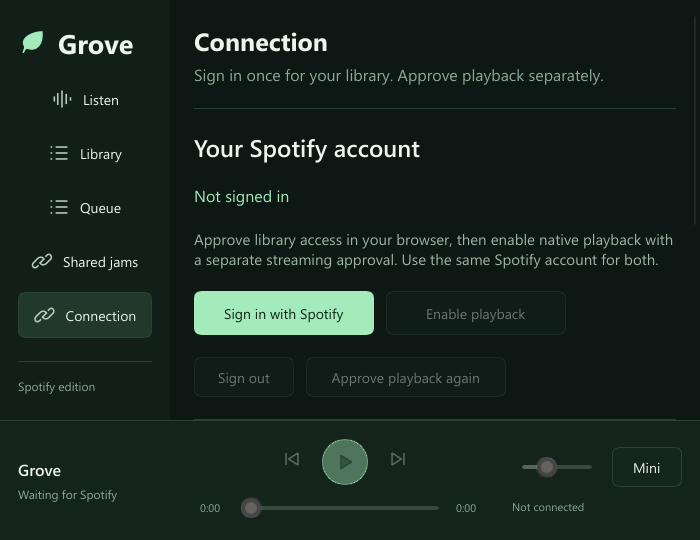
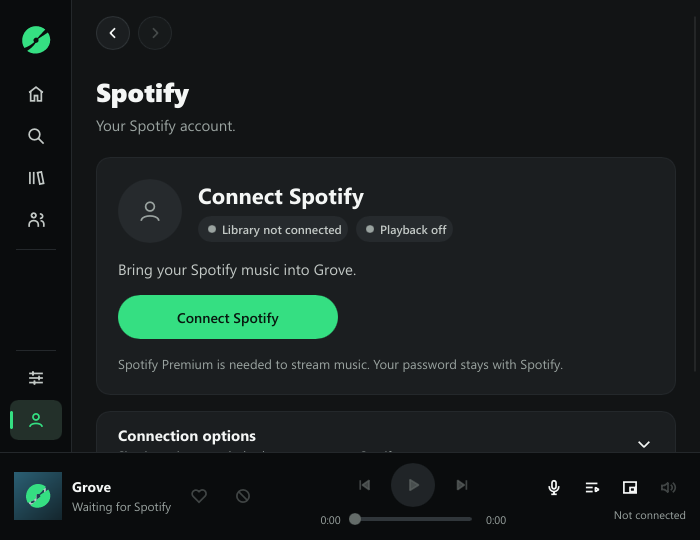
Docs: describe the merged state and what is still pending live
README features and screenshots, the Tide parity table and the beta status
now cover the five merged branches, the startup budgets and the Linux and
macOS preview, and list the checks that need a live account, Premium,
hardware, a public relay or code signing.

diff --git a/docs/grove/TIDE_PARITY.md b/docs/grove/TIDE_PARITY.md
@@ -1,8 +1,11 @@
 # Tide → Grove feature audit
 
 Reviewed 2026-10-22 against Tide 0.3.0, `origin/main` at `567cb97`, especially
-`docs/USING_TIDE.md` and the native application. The older Tide checkout on this
-branch is not the parity reference. **Full parity is not complete.**
+`docs/USING_TIDE.md` and the native application. Updated 2026-11-24 for the
+merged module split (#42), UI shell (#47), audio engine (#43), browse pages (#44),
+Windows integration (#45) and jams (#46), plus the startup request budgets and
+the Linux/macOS preview (#48). **Every row below is implemented offline; none of
+it has been checked against a live Spotify account yet.**
 
 “Implemented” means a reachable native control with connected application logic.
 Offline callbacks do not establish that a Spotify grant, endpoint, audio device
@@ -16,6 +19,7 @@ or second Premium account works in production.
 | My Supermix | Provider alternative | Discovery mix, pinned in Library and on Home: top songs, top artists' newest releases and liked songs by those artists. Spotify's recommendation endpoints are closed to new apps. |
 | Playlists / Liked Songs | Implemented | Library tabs (Playlists, Albums, Artists, History) with a filter. Collection pages with a header (artwork, owner, count, Play/Shuffle) and a track table. Spotify only lists items of playlists you own or collaborate on; others show a note and play as a Spotify context. |
 | Artist browsing | Implemented | Artist pages: hero header, Play/Shuffle, Follow/Following through `/me/library`, popular songs (top tracks where allowed, otherwise from the newest releases), album and single shelves. Song menus offer a choice among credited artists. |
+| Rate limits (Grove-specific) | Implemented; live check pending | Requests are grouped into budgets (search, library, playlists, artists, profile, …). A 429 cools down only its budget, honours `Retry-After`, shows the time left with Retry and words `QUOTA_EXCEEDED` differently. Identical reads collapse and track lookups are batched where Spotify still allows it. The startup profile and first playlists page are cached per account: fresh, they need no request; stale or throttled, the last launch's copy shows at once. Playback never waits on a Web API cooldown. |
 | Artwork | Implemented | Public Spotify CDN only; no OAuth on downloads; bounded worker, timeout, size/decode limits, 160-entry cache of 192 px covers. Pages request a bounded number of covers and models update in place, so covers do not flicker or refetch in a loop. |
 | Song menus | Implemented | Play, Play next, Add to queue, Like/Unlike, View artist, Hide and playlist editing. Remove appears only for owned playlists and asks for confirmation. |
 | Likes / dislikes | Provider alternative | Spotify Save/Unsave including current player. Hide is a Grove preference, not a Spotify dislike. |
@@ -29,14 +33,17 @@ or second Premium account works in production.
 | Loading / retry / quality | Implemented; live audio check open | Settings → Audio: 96/160/320 kbps and volume levelling (automatic/per song/per album, pregain), applied by restarting the player at the same song and position. Now Playing shows the source format (codec · bitrate · 44.1 kHz) using librespot's own file preference order. A lost librespot session (network drop, sleep, invalid session) reconnects automatically with the saved approval on a capped backoff and restores song, context and position; the player shows Reconnecting… meanwhile. Also: fade between songs (Off or 2–12 s, gapless albums kept), equalizer presets plus a 5/10-band custom curve, sleep timer, and resume positions for episodes and 20-minute tracks. |
 | Light / dark | Implemented | Settings; persisted independently from window size. |
 | Normal / Compact / Mini / restore | Implemented | Settings layout and mini/restore; previous expanded size is retained. |
-| Windows media controls | Implemented; hardware check open | Shared native session, metadata/timeline and guarded callbacks; Settings can disable it. Review modes register no system session. |
-| Custom global shortcuts | Missing | Grove does not register configurable Ctrl/Alt combinations. |
+| System media controls | Implemented; hardware check open | Windows: shared SMTC session with taskbar buttons. Linux: MPRIS; macOS: Now Playing (both through souvlaki behind the `MediaControls` seam, never run on hardware). mpv gets `--media-controls=no` so it cannot claim media keys. Settings can disable it; review modes register no system session. |
+| Custom global shortcuts | Implemented (Windows); live check open | Settings → Keyboard shortcuts records Ctrl/Alt chords for Play/pause, Next and Previous through `RegisterHotKey`, reports conflicts, and Space / ← / → work inside the window. Not available on Linux or macOS yet. |
+| Tray / System theme / crash reports | Implemented (Windows); live check open | Opt-in keep-playing-in-the-tray with a menu; Dark/Light/System following the Windows app setting; a redacted local crash log with a notice on the next launch. Nothing is uploaded. |
+| Synced lyrics | Implemented; live check open | Now Playing shows LRCLIB synced lyrics (public metadata only), follows the position and seeks on click. |
 | Output-device recovery | Implemented; hardware check open | Settings → Audio chooses System default (follows Windows) or a named output, saved across restarts; a missing saved output is labelled unavailable. Grove's own librespot sink reopens on a Windows default change, pauses instead of blocking when the output fails, and resumes once if the same song's output returns within 10 minutes. Physical Bluetooth/USB/HDMI loss and return are not yet verified. |
 | Local audio files | Implemented | Settings → Open audio file uses Tide's owned mpv backend without a Spotify login. Native play/pause, seek, volume, retry, mini and return use the same player. Spotify pause must be confirmed before switching; local files cannot enter jams. Requires the shared mpv runtime. |
 | Jams on own devices | Nearby rooms implemented | Real TCP host/guest review, ownership, host control, drift correction, stale samples and confirmed consumption. Each account streams independently; two-account audio validation remains open. |
 | Internet Jams | Implemented; live check pending | Joins Tide relay rooms (protocol 1, TLS, short codes, wake-up, bounded retry/rejoin). Grove-hosted internet rooms use cross-service protocol 2 on the free self-hostable `grove-jam-relay`; Tide needs protocol 2 to follow them. No public relay deployment validated. |
 | Tide ↔ Grove jams / matching | Implemented; audible check pending | Grove follows Tide hosts on Tide's relay, interop-tested in CI against a pinned Tide commit. ISRC auto-match, duration-ranked candidates, opt-in remembered choices, album/playlist entries. Encrypted nearby rooms are Grove-only until Tide adopts protocol 3. See [cross-service jams](../CROSS_SERVICE_JAMS.md). |
-| Installer / updates | Private candidate | Grove has its own per-user installer, portable package, checksums and rollback/uninstall checks. Manual updates only; Spotify verification holds the beta from release. See [beta status](BETA_STATUS.md). |
+| Installer / updates | Private candidate | Per-user installer, portable package, checksums and rollback/uninstall checks. Settings → Updates checks GitHub Releases and verifies the installer's size and SHA-256 from `GroveUpdate.json` before handing off; releases are unsigned, so this proves integrity, not authenticity. Spotify verification holds the beta from release. See [beta status](BETA_STATUS.md). |
+| Mac / Linux | Preview; hardware check pending | Like Tide's Mac preview, but unsigned and CI-only: the ubuntu and macos jobs test, run clippy and the offline review modes, and upload a portable tar.gz. Sign-ins use the Secret Service or Keychain, local files use mpv over a private Unix socket, and the browser opens through `xdg-open`/`open`. No installer, updater, tray, global shortcuts or System theme there yet. See [PORTABLE.md](PORTABLE.md). |
 | Branding | Partial | Approved log/record SVG is embedded. The live X banner still predates the final logo and was not replaced during this audit. |
 
 Home is the default screen. Account has one primary connection action; client IDs,
@@ -63,6 +70,9 @@ launch consent, write preferences or register Windows media controls.
 ./target/debug/grove-music.exe --review-audio "$env:TEMP/grove-audio-review"
 ```
 
+CI runs the same build, tests, clippy and the smoke, feature and jam review modes
+on Windows, and (non-blocking) on Ubuntu under Xvfb and on macOS.
+
 Feature review uses actual callbacks with synthetic responses: sign-in guard,
 overlapping searches, pagination, song menus, reorder/remove, hide/reset,
 confirmed starts, stale EOF, timeout preservation, collection entry shapes,
@@ -77,8 +87,10 @@ Spotify credentials or a file-picker dialog. The other review modes never start
 an audio backend. The actual Windows file chooser still needs manual validation.
 
 Live checks remain: fresh consent with added scopes; Spotify search/library and
-playlist writes; native audio/seek; two-account jam audio; media keys in games;
-and physical output-device switching. Browse up to 2,000 rows; Play/Shuffle use
+playlist writes; real 429 and `QUOTA_EXCEEDED` replies; native audio/seek and the
+audio settings by ear; reconnect after a real network drop or sleep; two-account
+jam audio and a public relay host; media keys in games; physical output-device
+switching; and any run of the Linux or macOS builds on real hardware. Browse up to 2,000 rows; Play/Shuffle use
 up to 500 loaded songs; the editable Grove queue holds up to 500 tracks.
 
 ## Spotify references

diff --git a/docs/grove/BETA_STATUS.md b/docs/grove/BETA_STATUS.md
@@ -1,52 +1,75 @@
-# Grove private beta status — 2026-10-22
+# Grove private beta status — 2026-11-24
 
 **Release hold: Spotify access and audible playback are not verified.**
 
-Grove 0.1.0-beta.1 has an installable Windows x64 candidate. It is not ready
-to distribute as a working Spotify player. No public release has been made.
+Grove 0.1.0-beta.1 has an installable Windows x64 candidate, and Linux and
+macOS preview archives come out of CI. None of it is ready to distribute as a
+working Spotify player. No public release has been made.
+
+Since the October candidate, the module split (#42) and five parity branches
+have merged: the UI shell with Now Playing lyrics and the queue drawer (#47),
+the audio engine (#43), browse pages with request budgets (#44), Windows
+integration and release infrastructure (#45) and jams (#46). #48 routes the
+startup profile and playlists through the same budgets and cache, and adds the
+Linux and macOS builds. Everything below "Candidate checks" was verified offline
+only.
 
 ## What is blocking release
 
-- The live account saved a library approval. The final read-only check verified
-  the account profile, but library requests hit HTTP 429 and the local cooldown
-  blocked further library/search requests. No catalog checks passed. This response
-  did not identify QUOTA_EXCEEDED; it remains a recurring rate limit.
-- The final profile check confirmed the account is not Premium. Streaming in Grove requires
-  Premium, so audible playback, pause/seek/resume and volume remain unverified.
-- There is no dedicated Grove Spotify Client ID. A reliable private beta needs
-  an app owner who meets Spotify's current development requirements and adds
-  the testers to the allowlist. The tester does not need to share any secret.
-- Two-device Spotify jams and audible Tide ↔ Grove synchronization still need
-  live testing with eligible accounts. Internet rooms need a relay deployment
-  check (live check pending).
+- **Live Spotify account.** The October check saved a library approval, but
+  library requests hit HTTP 429. Grove now cools down only the affected
+  endpoint group, keeps the last launch's profile and playlists on screen and
+  tells `QUOTA_EXCEEDED` apart, but no catalog, library or playlist-write check
+  has passed against Spotify yet.
+- **Premium.** The test account is not Premium. Streaming needs Premium, so
+  audible playback, pause/seek/resume, volume, the audio settings (quality,
+  levelling, fades, equalizer, sleep timer) and reconnect after a real network
+  drop or sleep remain unverified.
+- **Dedicated Spotify Client ID.** A reliable private beta needs an app owner
+  who meets Spotify's current development requirements and allowlists the
+  testers. Testers never need to share a secret.
+- **Jams.** Two-device Spotify jams, audible Tide ↔ Grove synchronization and a
+  public `grove-jam-relay` host behind TLS need live testing.
+- **Code signing.** The installer, the updates and the macOS archive are
+  unsigned. The update check proves a download matches its release, not who
+  published it.
 
 Spotify's [quota modes](https://developer.spotify.com/documentation/web-api/concepts/quota-modes)
 describe Premium ownership and the five-user limit for a new development app.
 The [quota update](https://developer.spotify.com/blog/2026-07-23-web-api-quota-updates)
 explains developer-wide quotas and the QUOTA_EXCEEDED response reason.
 
-## Candidate checks
+## Candidate checks (offline)
 
-- 16 Grove and 15 shared-jam unit tests pass. Strict Clippy passes for both
-  packages. The final optimized build and package results accompany the download.
-- Native candidate reviews passed 18 feature stages, 16 jam callback stages,
-  eight muted local-audio stages and a 19-view smoke run.
-- Installer tests passed payload corruption/traversal checks, eight bootstrap
-  rejection cases and 22 installation/rollback/uninstall scenarios.
-- An isolated installation downloaded the real pinned mpv runtime, created real
-  shortcuts in a temporary folder, ran native local-audio checks and uninstalled.
-  Windows application registration was simulated; this is not a clean-machine test.
-- Package allowlists, SHA-256 checks and a credential/private-path scan passed.
-  The installer is unsigned and updates are manual.
+- `cargo fmt`, `cargo test --workspace` and `cargo clippy --workspace
+  --all-targets -D warnings` pass on Windows; CI repeats them on Ubuntu and
+  macOS (non-blocking jobs).
+- The smoke run (63 stages, 53 captures at 1200×800 and 700×540, light and
+  dark), the feature, browse and system review (49 stages), the jam review
+  (29 stages over real loopback peers and a local relay) and the audio review
+  (15 stages, 12 captures) pass. On Linux and macOS, CI runs the smoke,
+  feature and jam reviews and uploads the screenshots.
+- `scripts/test_grove_beta.py` covers payload corruption and traversal,
+  bootstrap rejections, the install/rollback/uninstall lifecycle and the
+  `grove://` handler with a faked registry.
+- Package allowlists, SHA-256 checks and a credential/private-path scan pass.
+  The shared crates match the pinned Tide commit.
 
 ## Remaining acceptance checks
 
 1. Configure an eligible dedicated Spotify app and allowlist a small tester group.
-2. Verify fresh consent, catalog/library access and reconnect after restarting.
-3. With a Premium tester, hear a song and test pause, seek, resume and volume.
-4. Verify Like/Unlike and a reversible edit to a disposable owned playlist.
-5. Test installation/removal on a clean Windows account, hardware media keys,
-   and output-device reconnection. Test two-device jams before promoting them.
+2. Verify fresh consent with the added scopes, catalog/library access, a real
+   429 cooldown and reconnect after restarting.
+3. With a Premium tester, hear a song and test pause, seek, resume, volume, the
+   audio settings and recovery after sleep and a network drop.
+4. Verify Like/Unlike, follow/unfollow and a reversible edit to a disposable
+   owned playlist.
+5. Test installation, update and removal on a clean Windows account, hardware
+   media keys, global shortcuts, the tray, and output-device loss and return.
+6. Test two-device jams and Tide ↔ Grove rooms, including a public relay host.
+7. Run the Linux and macOS archives on real machines: sign-in through the
+   browser, keyring storage, MPRIS / Now Playing, audio output and local files
+   through mpv.
 
 Use Settings → Save support info for a report without account names, music
 history or tokens. Do not send authorization codes or full login URLs.

diff --git a/README.md b/README.md
@@ -2,7 +2,7 @@
 
 # Grove
 
-**A lightweight, native Spotify player for Windows — the Spotify sibling of [Tide](https://github.com/yotam1001/tide-music).**
+**A lightweight, native Spotify player for Windows (with Linux and macOS previews) — the Spotify sibling of [Tide](https://github.com/yotam1001/tide-music).**
 
 Grove is a Rust + [Slint](https://slint.dev/) desktop app. It browses your library through the Spotify Web API and plays audio in-process with [librespot](https://github.com/librespot-org/librespot), so there is no browser, Electron shell or external daemon. It shares Tide's playback, Windows-integration and jam crates so the two apps can host and join each other's listening rooms.
 
@@ -12,20 +12,24 @@ Grove is a Rust + [Slint](https://slint.dev/) desktop app. It browses your libra
 
 ## Features (today)
 
-- Home, Search, Library, Liked Songs, Now playing, Queue, Shared jams, Settings, Account
-- Paste Spotify track / album / playlist / episode links
-- Native play/pause, seek, volume, shuffle, repeat; editable Grove queue
-- Song menus: Play next, Add to queue, Like/Unlike, View artist, Hide, owned-playlist editing
-- Light/dark, Normal/Compact/Mini layouts, Windows media controls, opt-in session history
-- Local audio files through Tide's mpv backend (no Spotify login needed)
-- Shared jams: encrypted nearby rooms, internet rooms via a free self-hostable relay, and joining **Tide** rooms (Tide ↔ Grove matching by ISRC/duration)
-- PKCE sign-in in your browser; credentials in Windows Credential Manager — Grove never sees your password
+- **Browse:** card-based Home (hero, quick picks, Made for you, recent, top artists, playlists, albums), Search with an All view and tabs, Library tabs (Playlists, Albums, Artists, History) with a filter, collection and artist pages, Liked Songs and a Discovery mix
+- **Listen:** native play/pause, seek, volume, shuffle and repeat; Now Playing with synced lyrics (LRCLIB) and an artwork-derived accent; a queue drawer with drag-to-reorder, autoplay and related songs
+- **Audio:** 96/160/320 kbps, volume levelling, fade between songs, equalizer presets and a custom curve, sleep timer, resume positions, output-device choice and automatic reconnect after a network drop or sleep
+- **Song menus:** Play next, Add to queue, Like/Unlike, View artist, Hide, and exact edits to playlists you own
+- **Spotify request budgets:** a 429 cools down only its own endpoint group, shows the time left with Retry and tells `QUOTA_EXCEEDED` apart; Home, Library and the startup profile and playlists are cached per account, so a startup 429 never blocks playback
+- **Shared jams:** encrypted nearby rooms, internet rooms through a free self-hostable relay, and joining **Tide** rooms (ISRC/duration matching)
+- **Windows:** media controls, opt-in tray, global shortcuts, System theme, crash notices, in-app update check, per-user installer
+- **Linux and macOS preview:** MPRIS / Now Playing, Secret Service / Keychain sign-in storage and mpv over a Unix socket; built, tested and packaged in CI but not yet run on real hardware
+- Light/dark/System, Normal/Compact/Mini layouts, opt-in session history, local audio files through Tide's mpv backend (no Spotify login needed)
+- PKCE sign-in in your browser; tokens live in the OS credential store and Grove never sees your password
+
+![Grove Home](docs/grove/screenshots/home.png)
 
 Full feature/parity table: [docs/grove/TIDE_PARITY.md](docs/grove/TIDE_PARITY.md).
 
 ## Requirements
 
-- Windows 10/11 x64
+- Windows 10/11 x64 (Linux and macOS: preview builds from CI, see [docs/grove/PORTABLE.md](docs/grove/PORTABLE.md))
 - Rust stable (see CI) — `cargo build --release -p grove-music`
 - Spotify **Premium** for playback (browsing works on free accounts)
 - `mpv` only for local-file playback
@@ -39,6 +43,7 @@ cargo run -p grove-music
 ./target/debug/grove-music.exe --smoke-ui "$env:TEMP/grove-smoke"
 ./target/debug/grove-music.exe --review-features "$env:TEMP/grove-features"
 ./target/debug/grove-music.exe --review-ui "$env:TEMP/grove-jams"
+./target/debug/grove-music.exe --review-audio "$env:TEMP/grove-audio"
 ```
 
 Then open **Account → Connect Spotify**, and **Enable playback** for the separate streaming approval. Details: [docs/grove/README.md](docs/grove/README.md).
@@ -54,11 +59,11 @@ Then open **Account → Connect Spotify**, and **Enable playback** for the separ
 | `ui/theme.slint`, `ui/components.slint`, `ui/model.slint`, `ui/player.slint` | Colour tokens, shared controls, row structs, player bar |
 | `ui/pages/` | One file per page (home and search lists, library, queue, now playing, jams, settings, account, playlist editor) |
 | `crates/jam` | Jam protocol, sync, encrypted nearby transport, Tide relay client and `grove-jam-relay` (interop-tested against Tide) |
-| `crates/playback`, `crates/core`, `crates/windows` | Vendored from Tide: mpv backend, shared types, Windows media integration |
-| `installer/`, `scripts/` | Per-user installer and packaging (still being decoupled from Tide's harness) |
+| `crates/playback`, `crates/core`, `crates/windows` | Vendored from Tide: mpv backend (named pipe on Windows, Unix socket elsewhere), shared types, Windows media integration |
+| `installer/`, `scripts/` | Per-user installer, packaging, release and shared-crate sync scripts |
 | `docs/` | Design notes, beta status, parity audit, jam protocol |
 
-The shared crates are a snapshot of Tide's. Keeping them in sync (or extracting them into a shared crate repo) is tracked in the issues.
+The shared crates are a snapshot of Tide's: `crates/core` and `crates/windows` are pinned to a Tide commit and checked in CI by `scripts/sync_shared_crates.py` (see [docs/SHARED_CRATES.md](docs/SHARED_CRATES.md)).
 
 ## Relationship to Spotify
 
